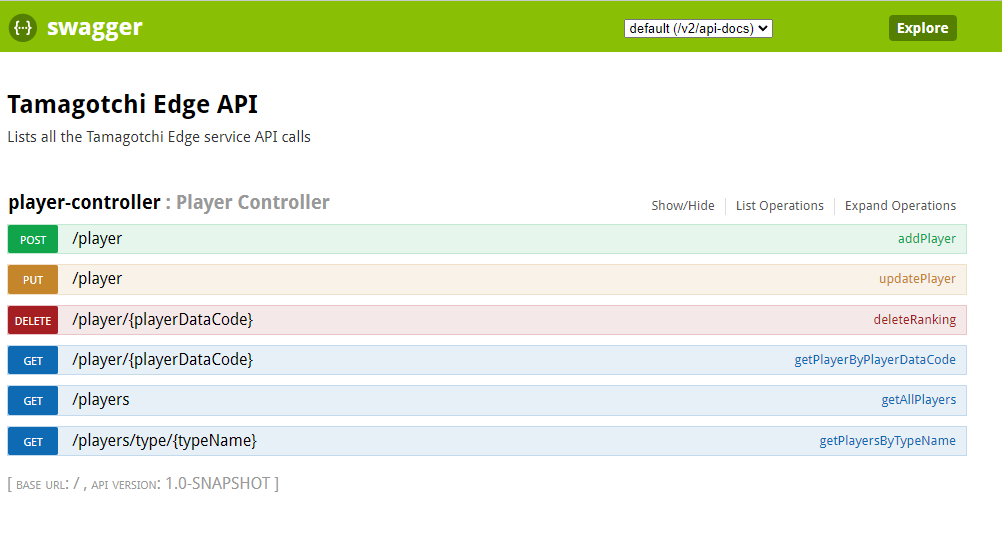
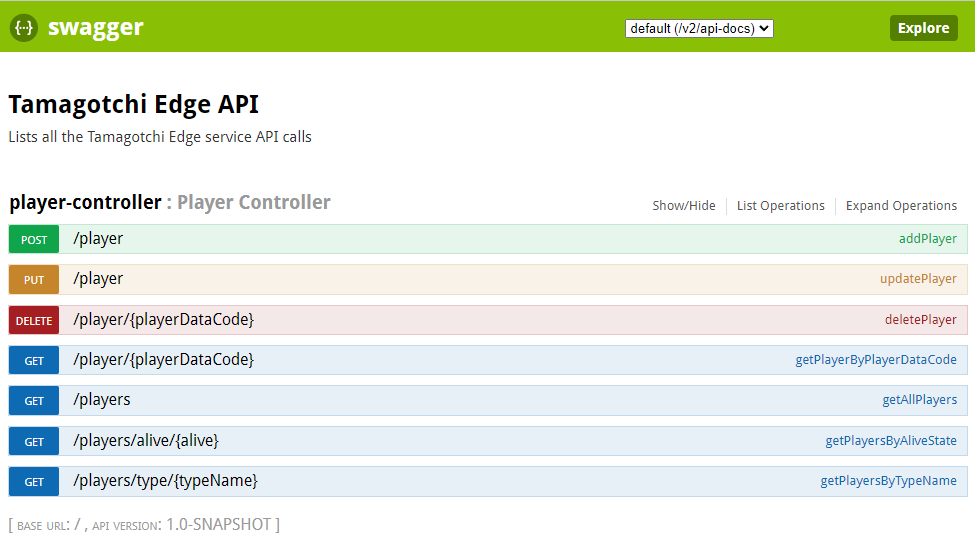
Updated: readme

diff --git a/README.md b/README.md
@@ -16,9 +16,11 @@
 ### Thema
 We zijn van plan een tamagotchi te maken, hierbij worden dan de soorten tamagotchi en de gegevens van de tamagotchi van de speler met behulp van de microservices beheerd.
 
+
 ### Backend repo's
 * [PlayerData Microservice (MongoDB)](https://github.com/A-Van-Gestel/3APP01-APT-Back_PlayerData_Microservice)
 * [Types Tamagotchi Microservice (MariaDB)](https://github.com/stenneyrinck/3APP01-APT-Back_TypesTomagotchi_Microservice)
+
 
 ### Kubernetes Service URL's
 Opent de Swagger-UI pagina van elke service, elke service draait in de cloud via Okteto.
@@ -26,9 +28,26 @@ Opent de Swagger-UI pagina van elke service, elke service draait in de cloud via
 * [PlayerData Microservice (MongoDB)](https://playerdata-service-server-a-van-gestel.cloud.okteto.net/swagger-ui.html)
 * [Types Tamagotchi Microservice (MariaDB)](https://type-tamagotchi-service-server-a-van-gestel.cloud.okteto.net/swagger-ui.html)
 
-### Swagger-UI output Edge Microservice
-![swagger-ui-edge](docs/img/swagger-ui-edge.png)
-![swagger-ui-edge-output](docs/img/swagger-ui-edge-output.png)
 
 ### Diagram van de volledige microservices architectuur
 ![diagram](docs/img/Overview.png)
+
+
+### Swagger-UI Edge Microservice
+#### The Requests
+![swagger-ui-edge](docs/img/swagger-ui-edge.png)
+
+#### GET Players output
+![swagger-ui-edge-output-players](docs/img/swagger-ui-edge-outputPlayers.png)
+
+#### GET Player by playerDataCode output
+![swagger-ui-edge-output-player-playerdatacode](docs/img/swagger-ui-edge-outputPlayerDataCode.png)
+
+#### GET Player by typeName output
+![swagger-ui-edge-output-players-typename](docs/img/swagger-ui-edge-outputPlayersTypeSlakkie.png)
+
+#### GET Player by alive (true) output
+![swagger-ui-edge-output-players-alive-true](docs/img/swagger-ui-edge-outputPlayersAliveTrue.png)
+
+#### GET Player by alive (false) output
+![swagger-ui-edge-output-players-alive-false](docs/img/swagger-ui-edge-outputPlayersAliveFalse.png)
